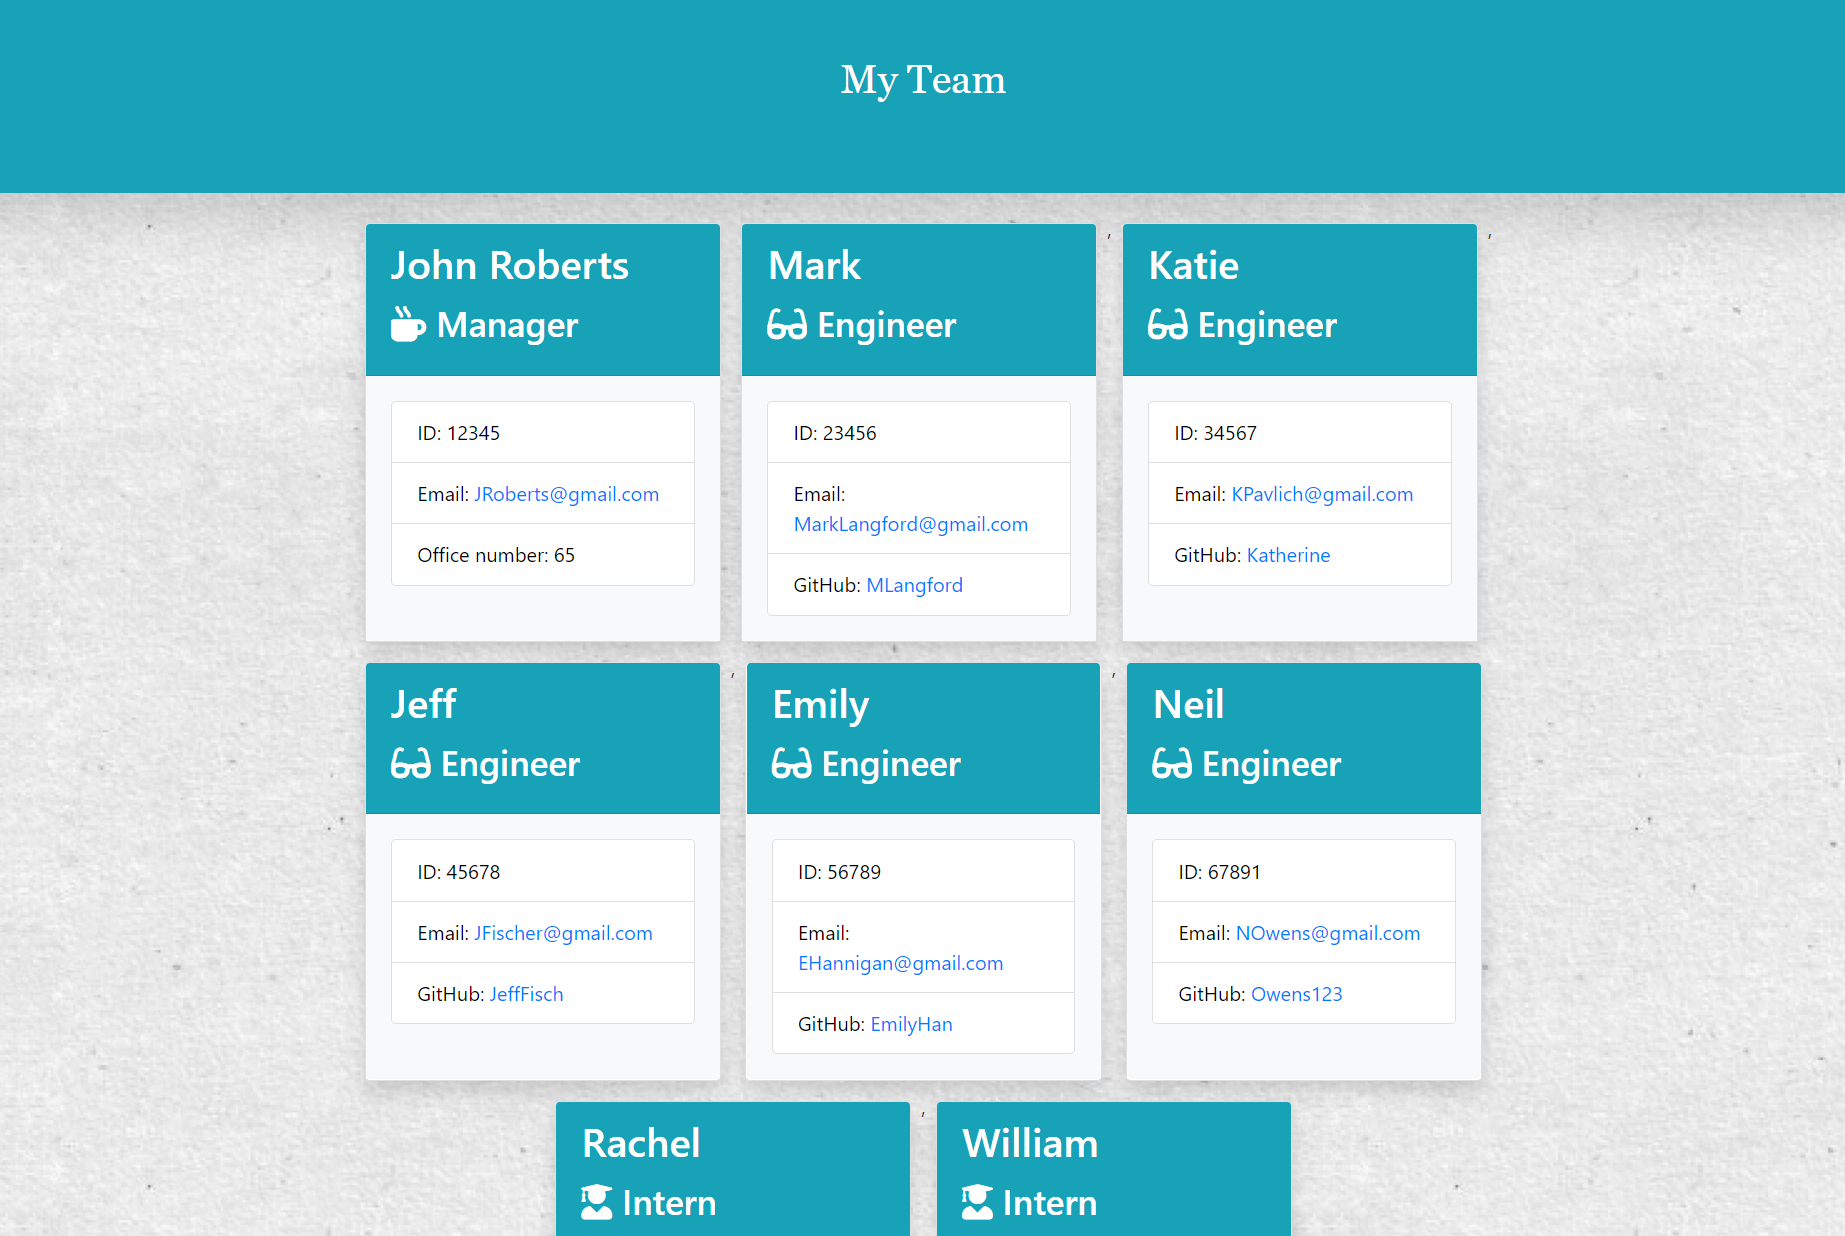
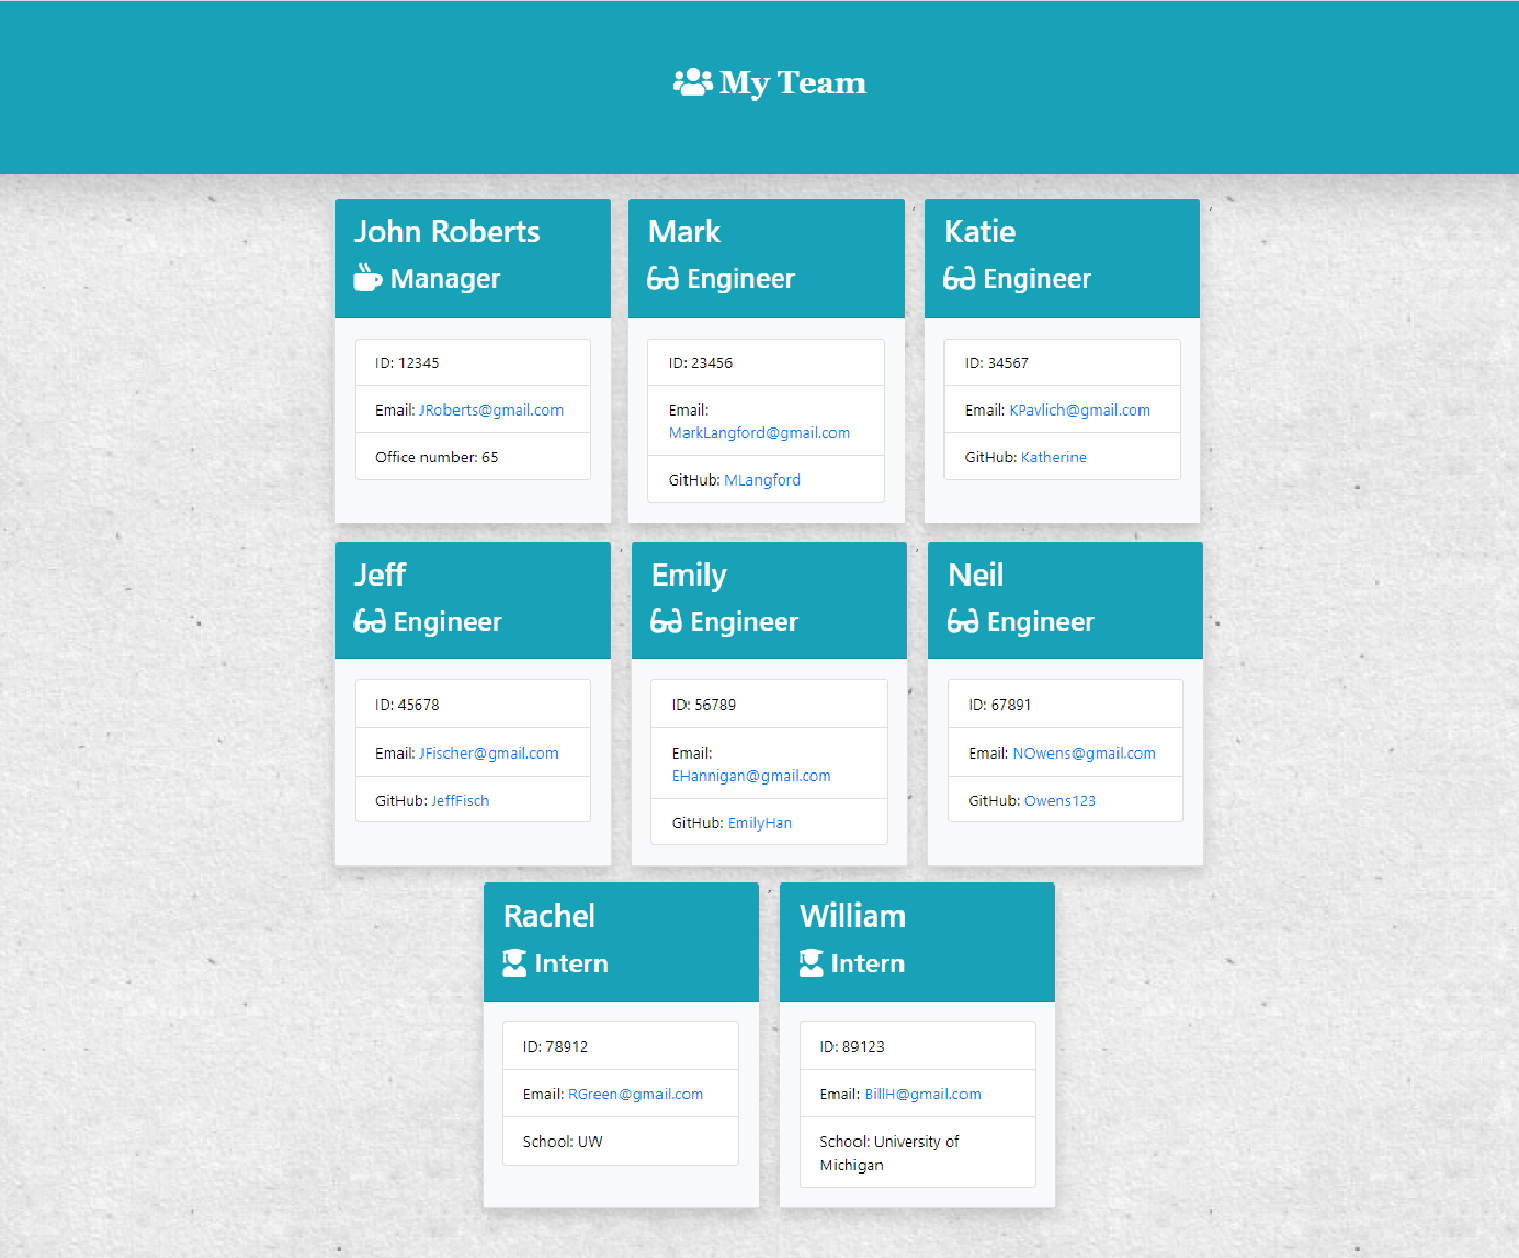
styling changes

diff --git a/output/team.html b/output/team.html
@@ -31,7 +31,7 @@
     <div class="container-fluid">
         <div class="row">
             <div class="col-12 jumbotron mb-3 team-heading shadow-lg bg-info text-white">
-                <h2 class="text-center">My Team</h2>
+                <h2 class="text-center"> <i class="fas fa-users"></i>   <strong> My Team</strong></h2>
             </div>
         </div>
     </div>

diff --git a/templates/main.html b/templates/main.html
@@ -31,7 +31,7 @@
     <div class="container-fluid">
         <div class="row">
             <div class="col-12 jumbotron mb-3 team-heading shadow-lg bg-info text-white">
-                <h2 class="text-center">My Team</h2>
+                <h2 class="text-center"> <i class="fas fa-users"></i>   <strong> My Team</strong></h2>
             </div>
         </div>
     </div>
